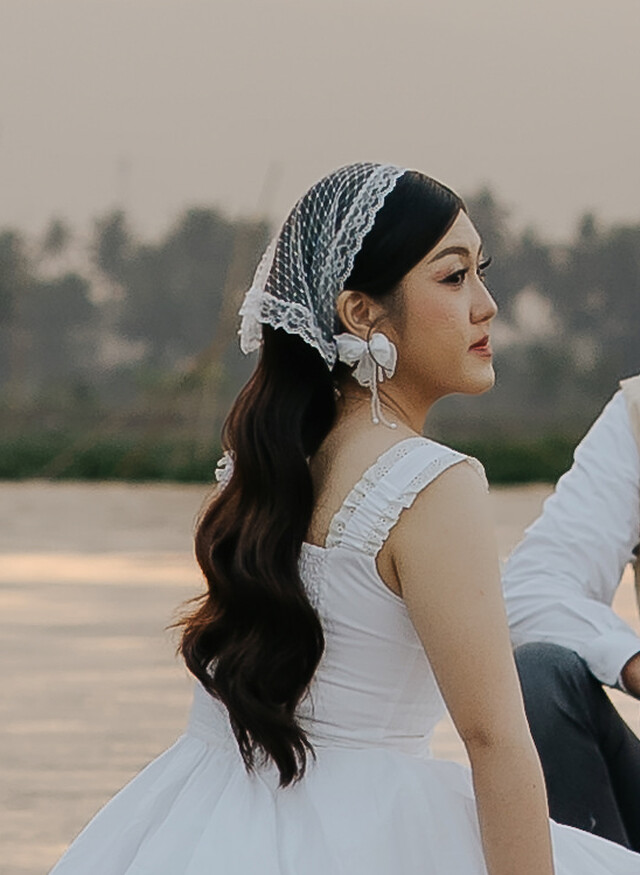
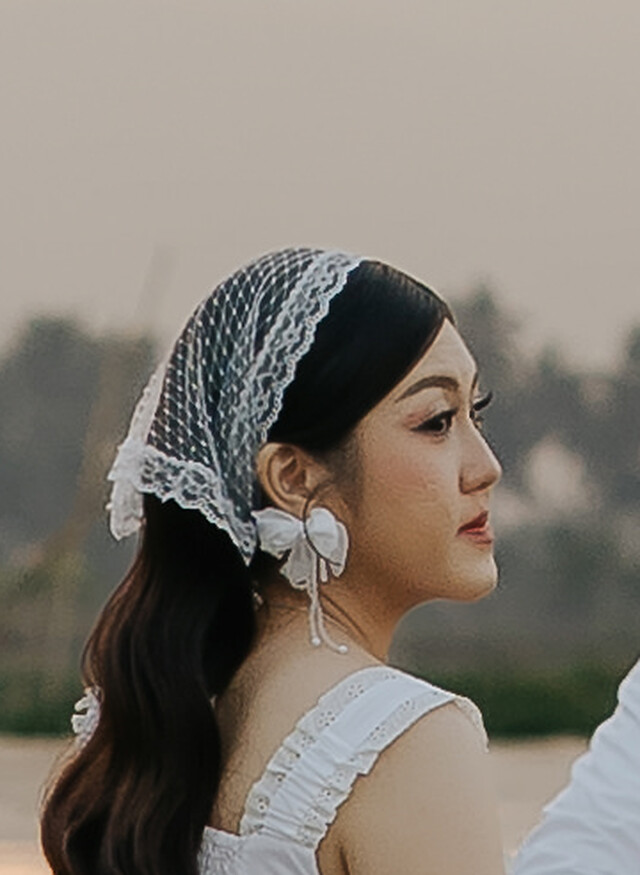
Crop ulang potret: Ivan di tengah, Sioni tanpa tangan Ivan
Dari original 2186 res-penuh: Ivan digeser jadi center; Sioni jadi
head-and-shoulders (kerudung renda) yang lebih rapat sehingga
lutut/tangan Ivan tidak lagi masuk frame. Cache foto naik ke ?v=7.

Claude-Session: https://claude.ai/code/session_01GMSdUjAdfB16khtqgiAMZX

diff --git a/preview/js/config.js b/preview/js/config.js
@@ -12,14 +12,14 @@ window.WEDDING_CONFIG = {
       full: "Ivan Rusli",
       parents: "Putra dari Bapak Lie Sje Foek & Ibu Irene Khoe",
       instagram: "", // contoh: "ivanrusli" (tanpa @)
-      photo: "../assets/img/groom.jpg?v=6", // foto potret ("" = ilustrasi bawaan)
+      photo: "../assets/img/groom.jpg?v=7", // foto potret ("" = ilustrasi bawaan)
     },
     bride: {
       nick: "Sioni",
       full: "Sara Sioni Santoso",
       parents: "Putri dari Bapak Sie Djing San & Ibu Njoo Eng Lian",
       instagram: "",
-      photo: "../assets/img/bride.jpg?v=6",
+      photo: "../assets/img/bride.jpg?v=7",
     },
   },
 
